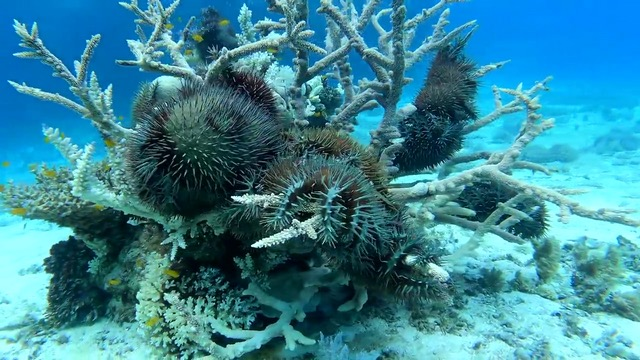
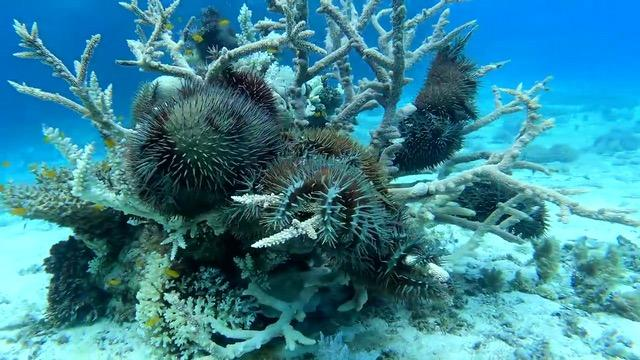
resized

diff --git a/resize.py b/resize.py
@@ -1,0 +1,14 @@
+from PIL import Image
+
+# Load the image
+image_path = "/home/vinayak/U2NeRF/docs/assets_copy/starfish_uw.jpeg"
+image = Image.open(image_path)
+
+# Resize the image
+new_width = 640  # specify the new width
+new_height = 360  # specify the new height
+resized_image = image.resize((new_width, new_height))
+
+# Save the resized image
+resized_image.save("/home/vinayak/U2NeRF/docs/assets/starfish_uw.jpeg")
+print("Image resized and saved successfully.")
